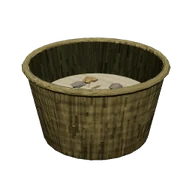
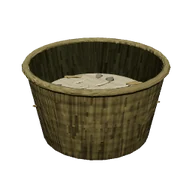
Avance: el soporte de varas con su travesaño, lo pequeño del cesto en trocitos, y los almacenajes nuevos mejor encuadrados
Claude-Session: https://claude.ai/code/session_011Xgxto8Si16a3YdABMwFBd

Changed region(s): [[0.3438, 0.375, 0.75, 0.4688], [0.2812, 0.4375, 0.3438, 0.4688], [0.1562, 0.5312, 0.1875, 0.5625]]

diff --git a/src/juego/estaciones.js b/src/juego/estaciones.js
@@ -203,7 +203,7 @@ function soporteVaras(id) {
     for (const sz of [-1, 1]) varaEntre(L, new THREE.Vector3(x, -0.08, sz * abre), new THREE.Vector3(x + sz * 0.02, cruce + 0.32, -sz * abre * 0.55), 0.024);
     L.add(new THREE.TorusGeometry(0.03, 0.009, 5, 10), 0xb8a27a, x, cruce, 0, { y: Math.PI / 2 }, { tex: 'paja', sinSuelo: true }); // la atadura
   }
-  varaEntre(L, new THREE.Vector3(-X, 0.05, -abre * 0.9), new THREE.Vector3(X, 0.05, abre * 0.9), 0.022); // la riostra, en diagonal
+  varaEntre(L, new THREE.Vector3(-X - 0.06, cruce - 0.22, 0), new THREE.Vector3(X + 0.06, cruce - 0.21, 0), 0.02); // el travesaño que los une, bajo el cruce
   return mallas(L);
 }
 // El almiar: el palo hincado (una vara alta) sobre un lecho de dos varas cruzadas, para que la paja no toque la tierra.
@@ -372,11 +372,16 @@ function llenoCesto(dep, id) {
   const total = tipos.reduce((a, [, n]) => a + n, 0), f = Math.min(1, total / ESTACIONES.cesto.cabe), { r0, r1, alto } = CESTO;
   const y = 0.04 + (alto - 0.08) * f, r = r0 + (r1 - r0) * (y / alto) - 0.012;
   L.add(new THREE.CircleGeometry(r, 22), COLOR_PEQUENO[tipos[0][0]] || 'lino', 0, y, 0, { x: -Math.PI / 2 }, { sinSuelo: true, tex: 'tejido' });
-  let i = 0;
-  for (const [t, n] of tipos) for (let k = 0; k < Math.min(7, n + 1); k++, i++) {
-    const a = i * 2.39996 + az(id, i), d = r * 0.85 * Math.sqrt((i + 0.5) / 26), tam = 0.022 + 0.012 * az(id, i + 50);
-    L.add(piedraIrregular(tam, 0, id + 'p' + i, 0.3), COLOR_PEQUENO[t] || 'lino', Math.cos(a) * Math.min(d, r - 0.03), y + tam * 0.3, Math.sin(a) * Math.min(d, r - 0.03), { y: az(id, i + 9) * 6 }, { escala: new THREE.Vector3(1.3, 0.6, 1), plano: true, sinSuelo: true });
-  }
+  // cada cosa, en su rincón y mezclada por los bordes: muchos trocitos pequeños y desiguales (más de lo que más hay)
+  const piezas = [];
+  for (const [t, n] of tipos) for (let k = 0; k < Math.min(18, 4 + n); k++) piezas.push(t);
+  const total2 = piezas.length;
+  piezas.forEach((t, i) => {
+    const a = i * 2.39996 + (az(id, i) - 0.5) * 0.5, d = Math.min(r - 0.02, r * 0.95 * Math.sqrt((i + 0.5) / total2)), tam = 0.011 + 0.011 * az(id, i + 50);
+    const fino = t === 'fibra' || t === 'cordel' || t === 'cuerda' || t === 'hierbas';
+    L.add(piedraIrregular(tam, 1, id + 'p' + i, 0.35), COLOR_PEQUENO[t] || 'lino', Math.cos(a) * d, y + tam * 0.25, Math.sin(a) * d, { y: az(id, i + 9) * 6, x: (az(id, i + 70) - 0.5) * 0.6 },
+      { escala: fino ? new THREE.Vector3(3.2, 0.45, 0.7) : new THREE.Vector3(1.2, 0.7, 1), sinSuelo: true });
+  });
   return mallas(L);
 }
 const LLENO = { acopio_troncos: llenoAcopio, pila_piedras: llenoPila, lenera: llenoLenera, soporte_varas: llenoSoporte, almiar: llenoAlmiar, hoyo_barro: llenoHoyo, cesto: llenoCesto };

diff --git a/pruebas/prueba_almacenajes_navegador.py b/pruebas/prueba_almacenajes_navegador.py
@@ -245,9 +245,9 @@ try:
         for t in ['soporte_varas', 'almiar', 'hoyo_barro', 'cesto']:
             comprobar(f'{t}: se dibuja con lo guardado', esperar(A, f"{DEPOSITO}('{t}') > 0", 5000), str(A.evaluate(f"{DEPOSITO}('{t}')")))
         A.add_style_tag(content='#materiales { visibility: hidden !important; }')   # (cuenta también los de mirar)
-        for t, dist, pitch, yaw, lado, atras, cual, nombre in [('soporte_varas', 4.2, 0.35, 0.6, 1.3, 0.9, 0, 'soporte_varas_lleno'), ('soporte_varas', 4.2, 0.35, 0.6, 1.3, 0.9, 1, 'soporte_varas_vacio'),
-                ('almiar', 6.0, 0.3, 0.4, 1.8, 1.4, 0, 'almiar_lleno'), ('almiar', 5.0, 0.3, 0.4, 1.6, 1.0, 1, 'almiar_juncos'),
-                ('hoyo_barro', 3.2, 0.7, 0.3, 1.0, 0.8, 0, 'hoyo_barro_lleno'), ('cesto', 2.4, 0.75, 0.3, 0.7, 0.5, 0, 'cesto_lleno')]:
+        for t, dist, pitch, yaw, lado, atras, cual, nombre in [('soporte_varas', 4.4, 0.4, 0.6, 0.7, 1.4, 0, 'soporte_varas_lleno'), ('soporte_varas', 4.4, 0.4, 0.6, 0.7, 1.4, 1, 'soporte_varas_vacio'),
+                ('almiar', 6.5, 0.32, 0.4, 0.9, 2.0, 0, 'almiar_lleno'), ('almiar', 5.5, 0.3, 0.4, 0.8, 1.6, 1, 'almiar_juncos'),
+                ('hoyo_barro', 3.6, 0.75, 0.3, 0.5, 1.1, 0, 'hoyo_barro_lleno'), ('cesto', 2.6, 0.85, 0.3, 0.35, 0.7, 0, 'cesto_lleno')]:
             encuadre(A, t, dist, pitch, yaw, lado, atras, cual); A.wait_for_timeout(2200)
             captura(A, f'{SALIDA}/PC_{nombre}.png')
         # el almiar solo con juncos (de pie, en cono) y el soporte vacío, junto a los llenos
@@ -275,9 +275,9 @@ try:
         B.evaluate(f"{NUEVOS}({K}, false)")
         B.add_style_tag(content='#materiales { visibility: hidden !important; }')
         comprobar('en el móvil, el almiar y el cesto se ven igual', esperar(B, f"{DEPOSITO}('almiar') > 0 && {DEPOSITO}('cesto') > 0", 8000))
-        encuadre(B, 'almiar', 7.0, 0.35, 0.4, 1.4, 1.4); B.wait_for_timeout(2500)
+        encuadre(B, 'almiar', 7.5, 0.35, 0.4, 0.7, 2.0); B.wait_for_timeout(2500)
         captura(B, f'{SALIDA}/movil_almiar.png')
-        encuadre(B, 'cesto', 2.8, 0.75, 0.3, 0.6, 0.5); B.wait_for_timeout(2000)
+        encuadre(B, 'cesto', 2.8, 0.85, 0.3, 0.3, 0.7); B.wait_for_timeout(2000)
         captura(B, f'{SALIDA}/movil_cesto.png')
         B.evaluate(f"{K}.__mirar = []; {K}.estacionesV.poner(Object.values({K}.fabCliente.estaciones).filter(e => !e.id.includes(':mirar')))")
 
